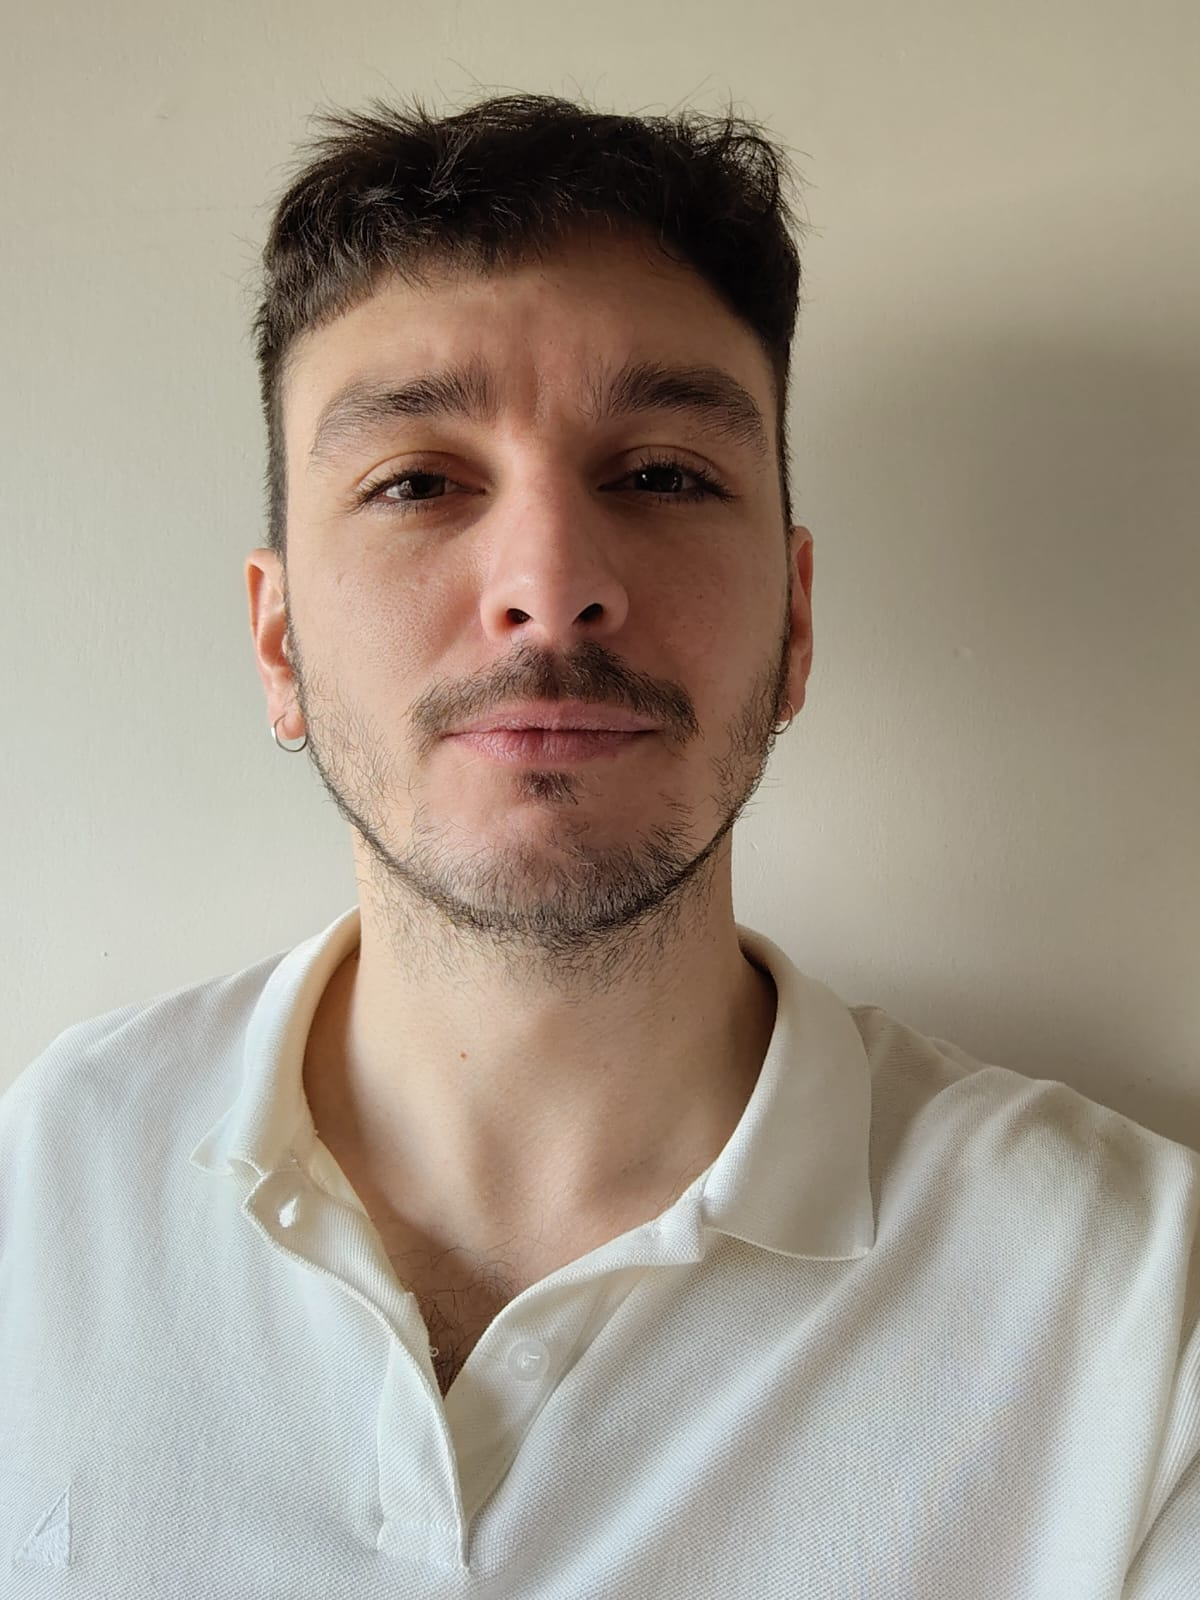
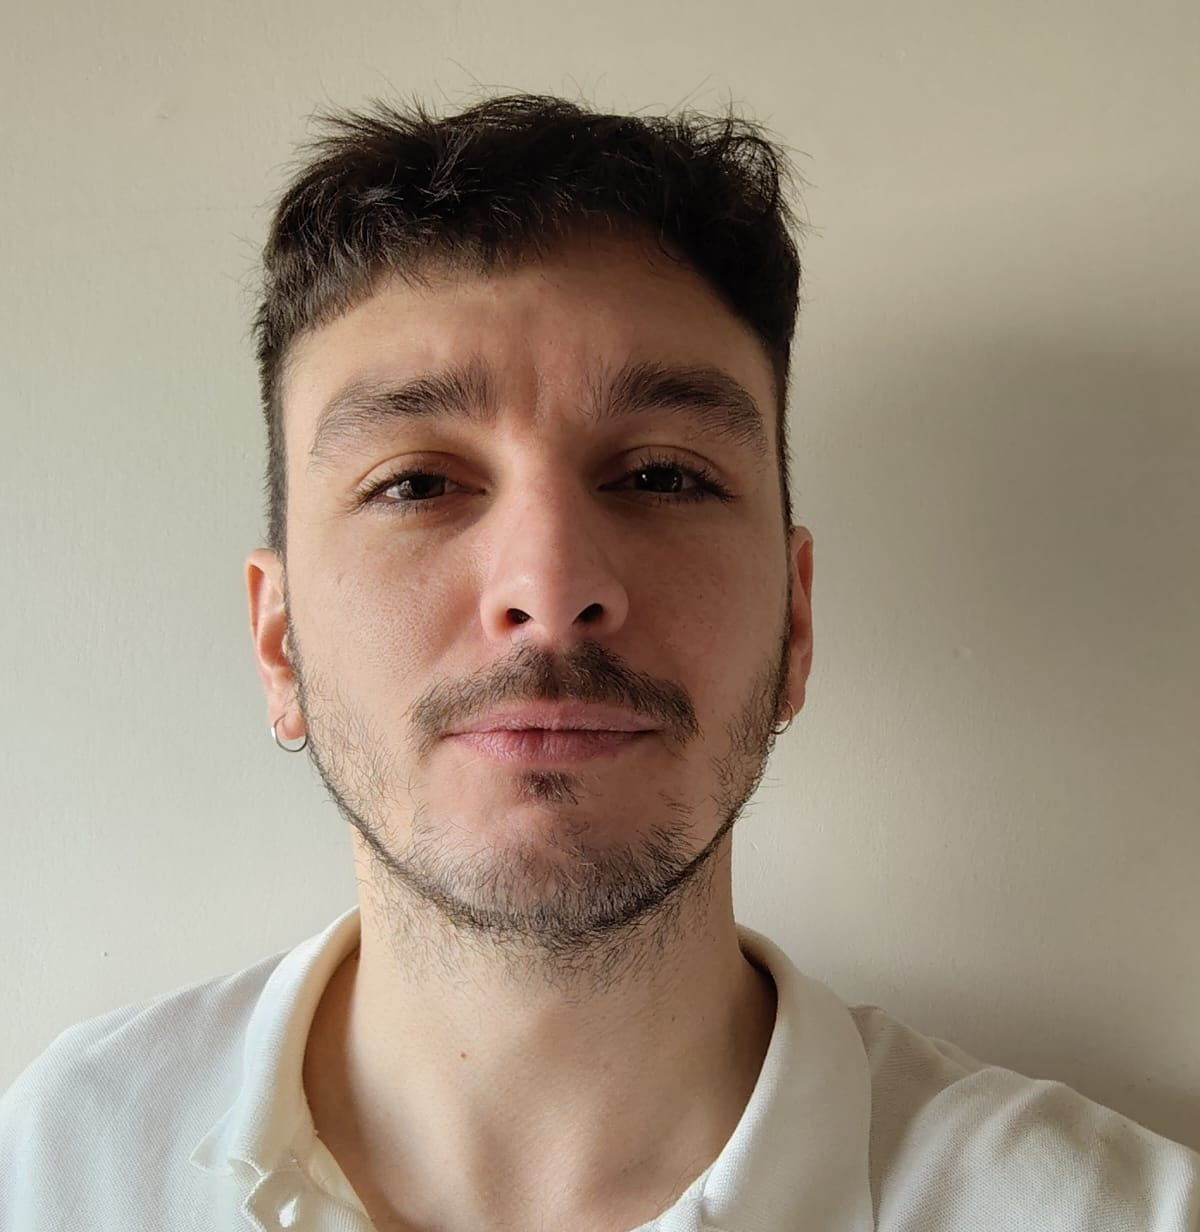
Fix About profile photo layout

diff --git a/src/app/components/about/about.component.scss b/src/app/components/about/about.component.scss
@@ -8,7 +8,7 @@
   border-radius: 12px;
   box-shadow: 0 2px 12px rgba(1, 42, 91, 0.08);
   max-height: 95vh;
-  overflow-y: hidden;
+  overflow-y: auto;
 }
 
 .personal-card {
@@ -45,13 +45,14 @@
   box-shadow: 0 8px 25px rgba(0, 0, 0, 0.15);
   width: 100%;
   max-width: 280px;
+  height: 220px;
   margin: 0 auto; 
 }
 
 .main-photo {
   width: 100%;
-  height: auto;
-  object-fit: contain;
+  height: 100%;
+  object-fit: cover;
   display: block;
 }
 
@@ -102,7 +103,7 @@
   padding: 25px;
   max-width: 100%;
   overflow-y: hidden;
-  max-height: calc(95vh - 50px);
+  max-height: none;
 }
 
 .info-header {
@@ -236,6 +237,7 @@
   .main-photo-container {
     width: 150px;
     flex-shrink: 0;
+    height: 150px;
   }
   
   .main-photo {
